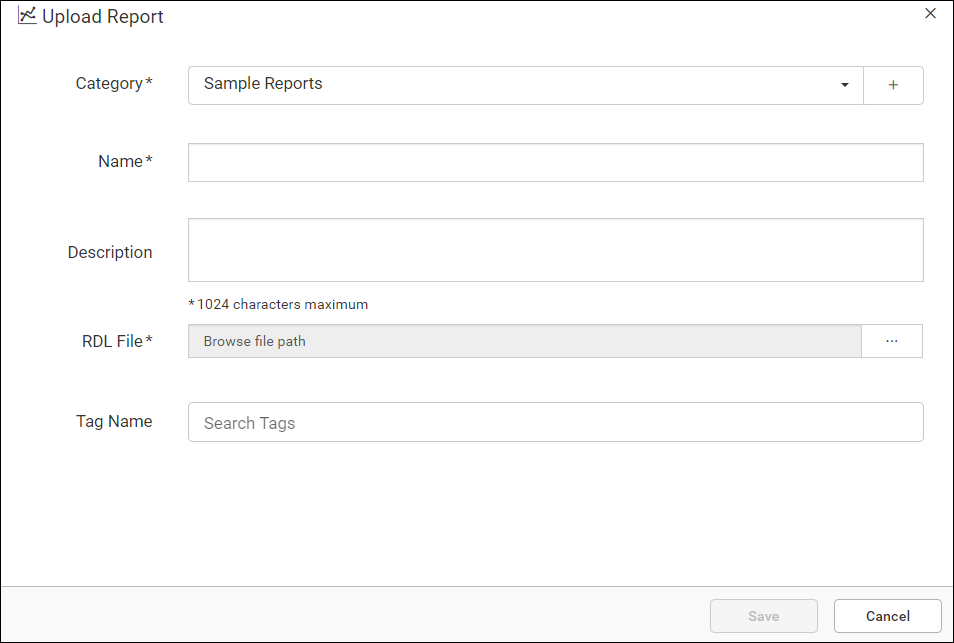
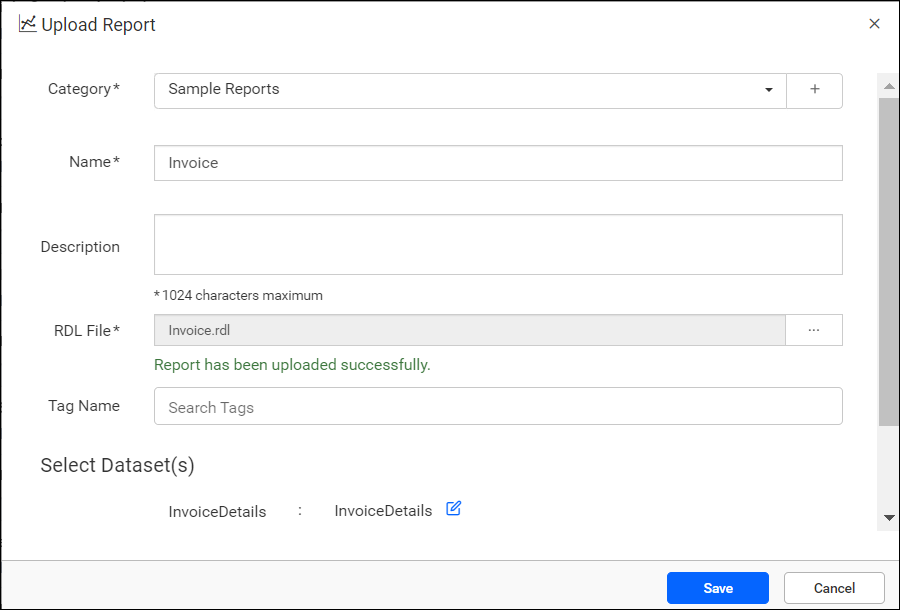
documentation(REPORT-322040): changed images

diff --git a/docs/designer-guide/manage-content/dataset-management.md b/docs/designer-guide/manage-content/dataset-management.md
@@ -41,11 +41,11 @@ We can create dataset by following ways.
 1. Click on the `+` button in the left side menu and choose `Upload Dataset` and select `Dataset` to add a dataset.
     ![Upload DataSet](/static/assets/on-premise/images/manage-content/manage-data-sets/upload-dataset-option.png)
 
-2. Enter the description of the dataset.
-3. Click `Browse` and select the `.rsd` file to upload. The `Name` field of the dataset is auto-filled with the uploaded `.rsd` file name.
+2. Enter the name and description of the dataset.
+3. Click `Browse` and select the `.rsd` file to upload.
     ![Auto-Filled Dataset Name](/static/assets/on-premise/images/manage-content/manage-data-sets/upload-dataset-name.png)
 
-    > If the name is already present in the input box, it will not be auto-filled. However, if there is no name in the input box, the file name will be auto-filled.
+    > If there is no name in the input box, the uploaded `.rsd` file name will be auto-filled.
 
 4. Select the `DataSource`. In the select data source dialog, you can either select a data source that is already available in the Report Server or create a new data source at that time itself.
     ![Select a data source for the uploaded dataset](/static/assets/on-premise/images/manage-content/manage-data-sets/upload-dataset-dialog.png)

diff --git a/docs/designer-guide/manage-content/reports/upload-report.md b/docs/designer-guide/manage-content/reports/upload-report.md
@@ -18,7 +18,5 @@ This section explains about how to upload report or add report to Bold Reports O
 2. Select a category for the report and fill the description of the report and upload the RDL file in the Upload Report dialog box.
     ![Upload Report](/static/assets/on-premise/images/manage-content/manage-reports/upload-report-dialog.png)
 
-3. The `Name` field of the report is auto-filled with the uploaded RDL file name.
-    ![Report name](/static/assets/on-premise/images/manage-content/manage-reports/upload-report-name.png)
-    > If the name is already present in the input box, it will not be auto-filled. However, if there is no name in the input box, the file name will be auto-filled.
-4. Click `Save` button.
+    > If there is no name in the input box, the uploaded RDL file name will be auto-filled.
+3. Click `Save` button.
